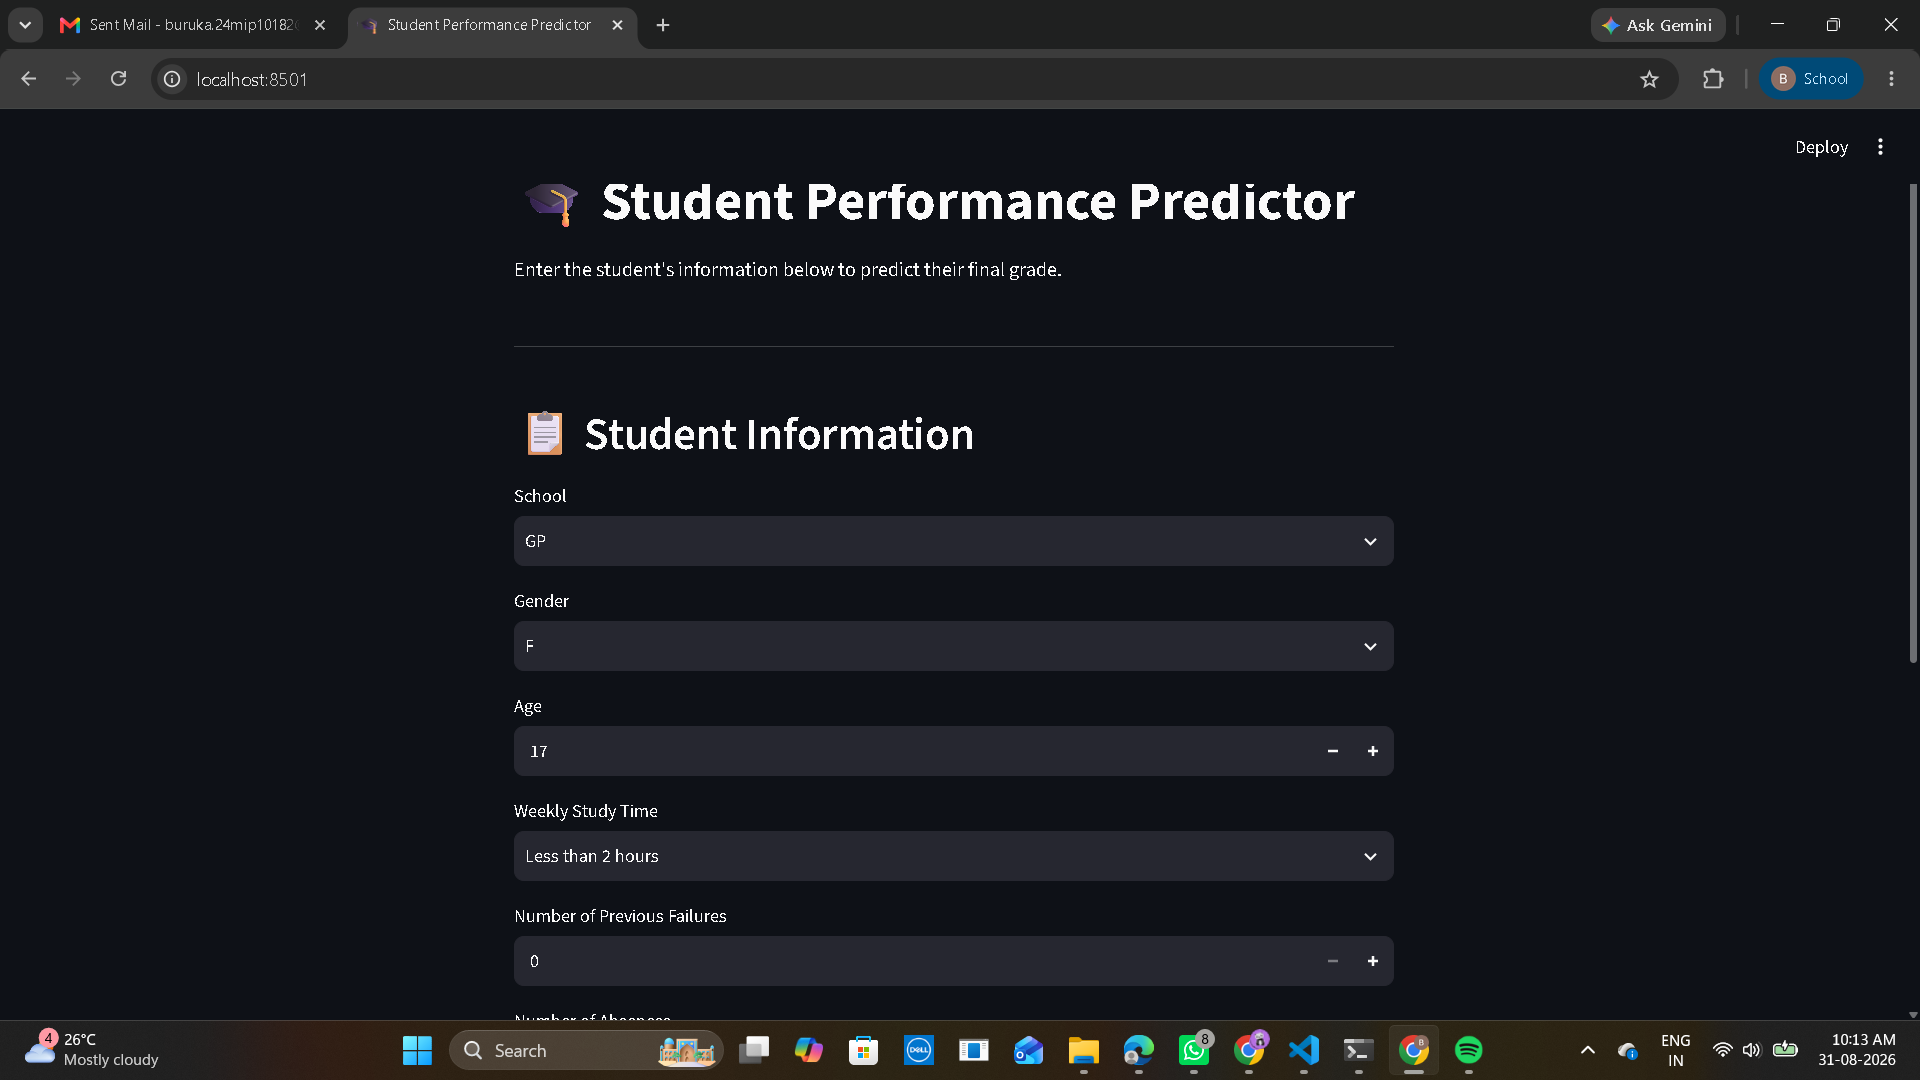
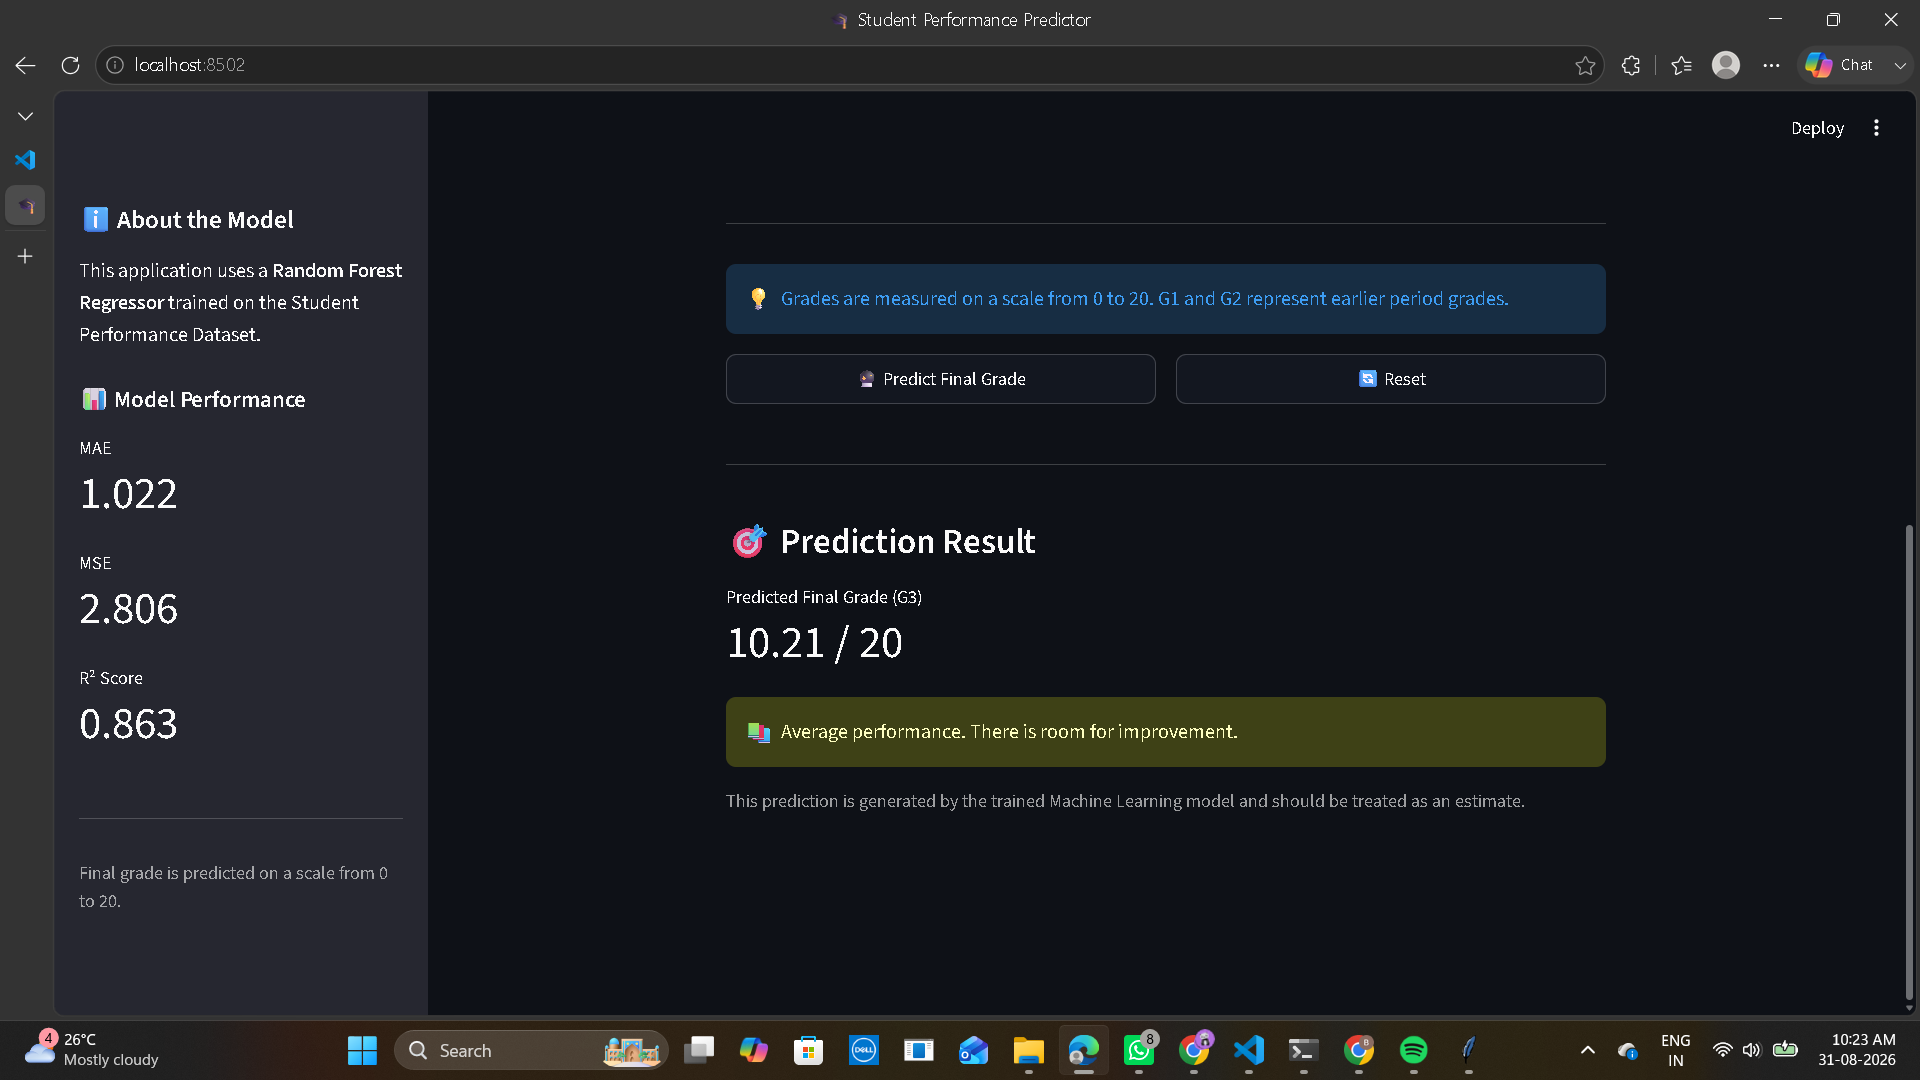
Improve Streamlit UI and add performance visualization

diff --git a/app.py b/app.py
@@ -3,11 +3,10 @@ import pandas as pd
 import joblib
 
 
-# Load trained model
-model = joblib.load("student_performance_pipeline.pkl")
+# --------------------------------------------------
+# PAGE CONFIGURATION
+# --------------------------------------------------
 
-
-# Page configuration
 st.set_page_config(
     page_title="Student Performance Predictor",
     page_icon="🎓",
@@ -15,94 +14,187 @@ st.set_page_config(
 )
 
 
-# Title
+# --------------------------------------------------
+# LOAD MODEL
+# --------------------------------------------------
+
+@st.cache_resource
+def load_model():
+    return joblib.load("student_performance_pipeline.pkl")
+
+
+model = load_model()
+
+
+# --------------------------------------------------
+# HEADER
+# --------------------------------------------------
+
 st.title("🎓 Student Performance Predictor")
 
-st.write(
-    "Enter the student's information below to predict their final grade."
+st.markdown(
+    """
+    Predict a student's **final academic grade (G3)** using
+    demographic, study, attendance, and previous academic
+    performance information.
+    """
 )
 
 st.divider()
 
 
-# Student information
+# --------------------------------------------------
+# SIDEBAR
+# --------------------------------------------------
+
+with st.sidebar:
+
+    st.header("ℹ About the Model")
+
+    st.write(
+        """
+        This application uses a **Random Forest Regressor**
+        trained on the Student Performance Dataset.
+        """
+    )
+
+    st.markdown("### 📊 Model Performance")
+
+    st.metric("MAE", "1.022")
+    st.metric("MSE", "2.806")
+    st.metric("R² Score", "0.863")
+
+    st.divider()
+
+    st.caption(
+        "Final grade is predicted on a scale from 0 to 20."
+    )
+
+
+# --------------------------------------------------
+# STUDENT INFORMATION
+# --------------------------------------------------
+
 st.header("📋 Student Information")
 
-
-school = st.selectbox(
-    "School",
-    ["GP", "MS"]
-)
+col1, col2 = st.columns(2)
 
 
-sex = st.selectbox(
-    "Gender",
-    ["F", "M"]
-)
+with col1:
+
+    school = st.selectbox(
+        "🏫 School",
+        ["GP", "MS"]
+    )
+
+    sex = st.selectbox(
+        "👤 Gender",
+        ["F", "M"]
+    )
+
+    age = st.number_input(
+        "🎂 Age",
+        min_value=15,
+        max_value=25,
+        value=17
+    )
+
+    failures = st.number_input(
+        "❌ Previous Failures",
+        min_value=0,
+        max_value=4,
+        value=0
+    )
 
 
-age = st.number_input(
-    "Age",
-    min_value=15,
-    max_value=25,
-    value=17
-)
+with col2:
 
+    studytime = st.selectbox(
+        "📚 Weekly Study Time",
+        [1, 2, 3, 4],
+        format_func=lambda x: {
+            1: "Less than 2 hours",
+            2: "2–5 hours",
+            3: "5–10 hours",
+            4: "More than 10 hours"
+        }[x]
+    )
 
-studytime = st.selectbox(
-    "Weekly Study Time",
-    [1, 2, 3, 4],
-    format_func=lambda x: {
-        1: "Less than 2 hours",
-        2: "2–5 hours",
-        3: "5–10 hours",
-        4: "More than 10 hours"
-    }[x]
-)
+    absences = st.number_input(
+        "📅 Number of Absences",
+        min_value=0,
+        max_value=100,
+        value=5
+    )
 
+    G1 = st.number_input(
+        "📝 First Period Grade (G1)",
+        min_value=0,
+        max_value=20,
+        value=10
+    )
 
-failures = st.number_input(
-    "Number of Previous Failures",
-    min_value=0,
-    max_value=4,
-    value=0
-)
-
-
-absences = st.number_input(
-    "Number of Absences",
-    min_value=0,
-    max_value=100,
-    value=5
-)
-
-
-G1 = st.number_input(
-    "First Period Grade (G1)",
-    min_value=0,
-    max_value=20,
-    value=10
-)
-
-
-G2 = st.number_input(
-    "Second Period Grade (G2)",
-    min_value=0,
-    max_value=20,
-    value=10
-)
+    G2 = st.number_input(
+        "📝 Second Period Grade (G2)",
+        min_value=0,
+        max_value=20,
+        value=10
+    )
 
 
 st.divider()
 
 
-# Prediction button
-if st.button(
-    "🔮 Predict Final Grade",
-    use_container_width=True
-):
+# --------------------------------------------------
+# GRADE INFORMATION
+# --------------------------------------------------
+
+st.info(
+    "💡 Grades are measured on a scale from 0 to 20. "
+    "G1 and G2 represent earlier period grades."
+)
+
+
+# --------------------------------------------------
+# PREDICTION
+# --------------------------------------------------
+
+col1, col2 = st.columns(2)
+
+
+with col1:
+
+    predict_button = st.button(
+        "🔮 Predict Final Grade",
+        use_container_width=True
+    )
+
+
+with col2:
+
+    reset_button = st.button(
+        "🔄 Reset",
+        use_container_width=True
+    )
+
+
+# --------------------------------------------------
+# RESET
+# --------------------------------------------------
+
+if reset_button:
+
+    st.rerun()
+
+
+# --------------------------------------------------
+# MAKE PREDICTION
+# --------------------------------------------------
+
+if predict_button:
 
     # Create input DataFrame
+
     input_data = pd.DataFrame({
         "school": [school],
         "sex": [sex],
@@ -116,29 +208,74 @@ if st.button(
 
 
     # Make prediction
+
     prediction = model.predict(input_data)[0]
 
 
-    # Keep grade within valid range
-    prediction = max(0, min(20, prediction))
+    # Keep prediction within valid range
 
-
-    # Display result
-    st.success(
-        f"🎯 Predicted Final Grade (G3): {prediction:.2f} / 20"
+    prediction = max(
+        0,
+        min(20, prediction)
     )
 
 
-    # Performance category
+    # --------------------------------------------------
+    # DISPLAY RESULT
+    # --------------------------------------------------
+
+    st.divider()
+
+    st.subheader("🎯 Prediction Result")
+
+    st.metric(
+        label="Predicted Final Grade (G3)",
+        value=f"{prediction:.2f} / 20"
+    )
+
+
+    # --------------------------------------------------
+    # PERFORMANCE CATEGORY
+    # --------------------------------------------------
+
     if prediction >= 16:
+
+        st.success(
+            "🌟 Excellent performance!"
+        )
+
         st.balloons()
-        st.info("🌟 Excellent performance!")
+
 
     elif prediction >= 12:
-        st.info("👍 Good performance!")
+
+        st.success(
+            "👍 Good performance!"
+        )
+
 
     elif prediction >= 10:
-        st.warning("📚 Average performance. There is room for improvement.")
+
+        st.warning(
+            "📚 Average performance. "
+            "There is room for improvement."
+        )
+
 
     else:
-        st.error("⚠ The student may need additional academic support.")
+
+        st.error(
+            "⚠ The student may need "
+            "additional academic support."
+        )
+
+
+    # --------------------------------------------------
+    # ADDITIONAL INFORMATION
+    # --------------------------------------------------
+
+    st.caption(
+        "This prediction is generated by the trained "
+        "Machine Learning model and should be treated "
+        "as an estimate."
+    )

diff --git a/model_performance.py b/model_performance.py
@@ -1,0 +1,18 @@
+import matplotlib.pyplot as plt
+
+metrics = ["MAE", "MSE", "R²"]
+scores = [1.022, 2.806, 0.863]
+
+plt.figure(figsize=(8, 5))
+plt.bar(metrics, scores)
+
+plt.title("Student Performance Prediction - Model Performance")
+plt.xlabel("Evaluation Metrics")
+plt.ylabel("Score")
+
+for i, score in enumerate(scores):
+    plt.text(i, score, f"{score:.3f}", ha="center", va="bottom")
+
+plt.tight_layout()
+plt.savefig("model_performance.png", dpi=300)
+plt.show()
